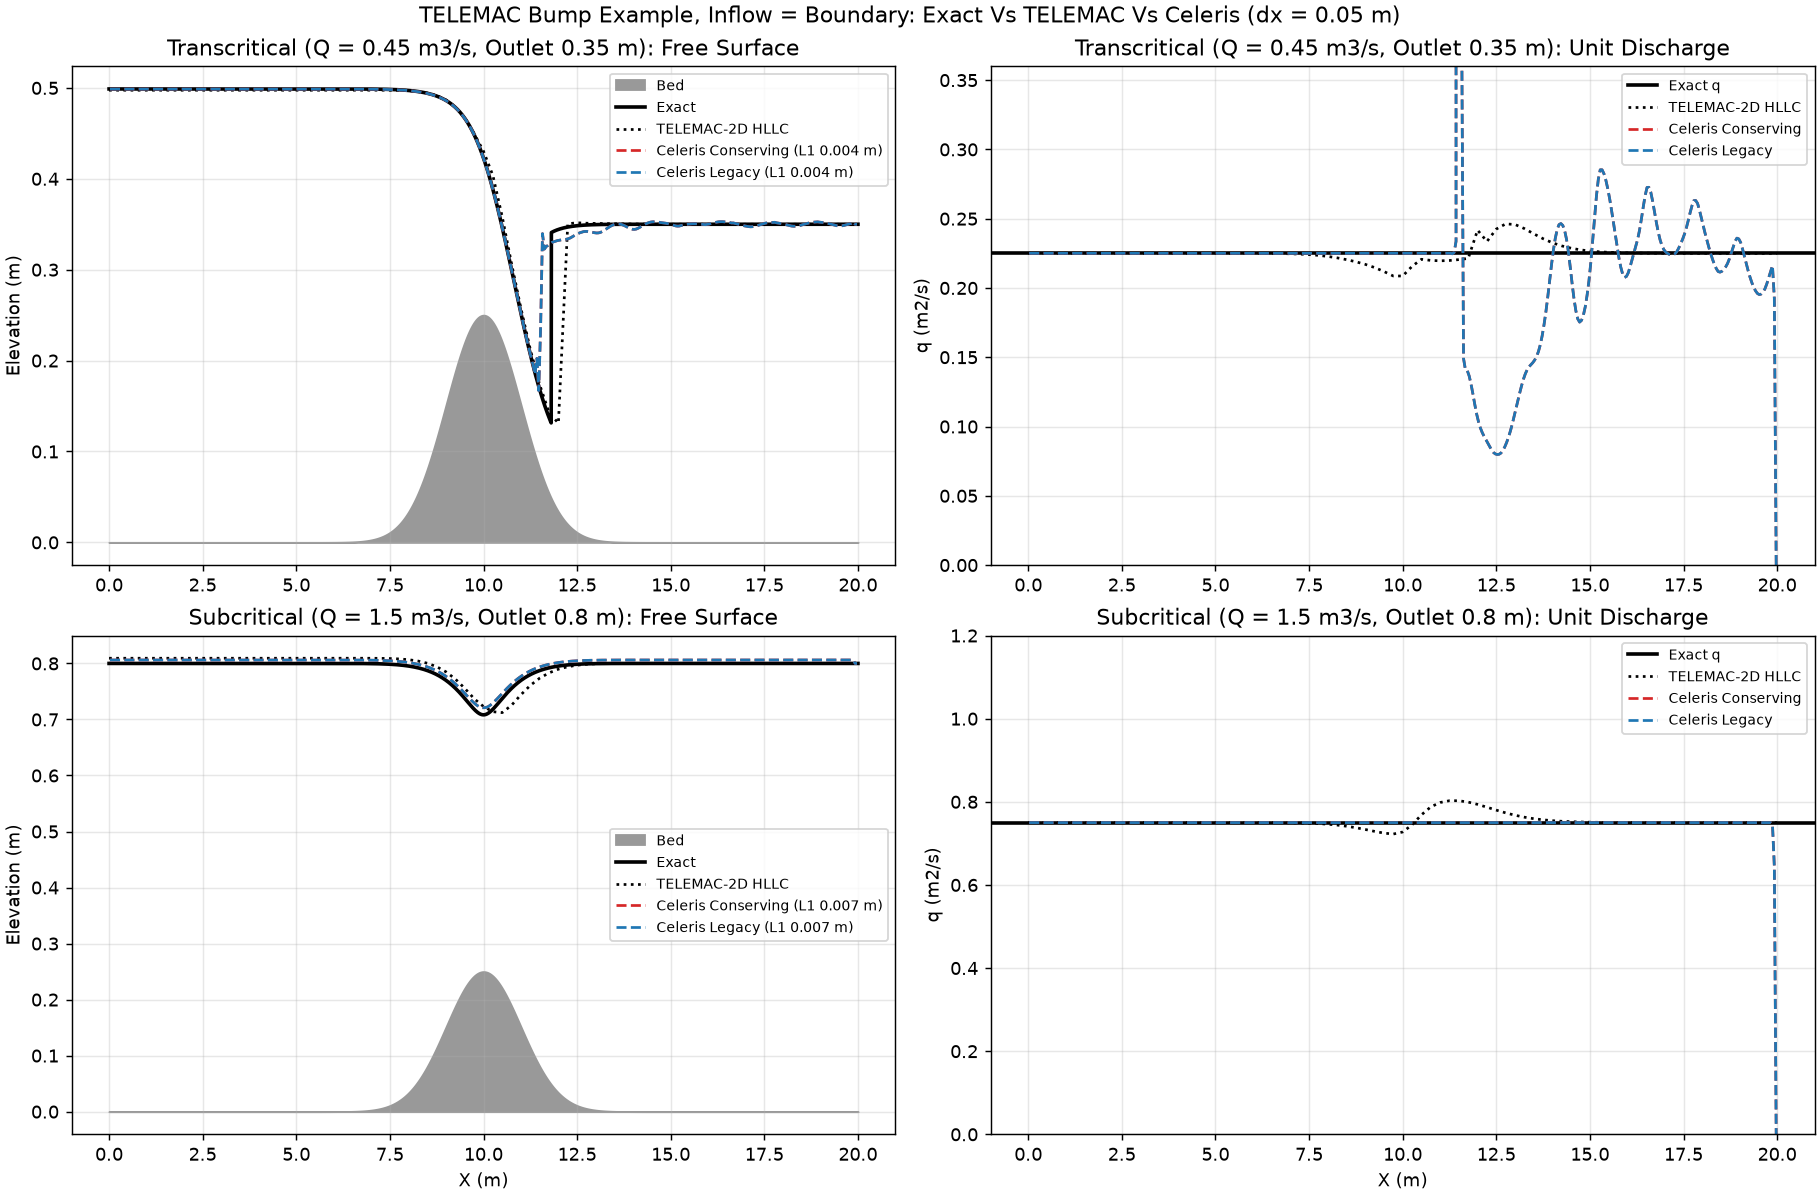
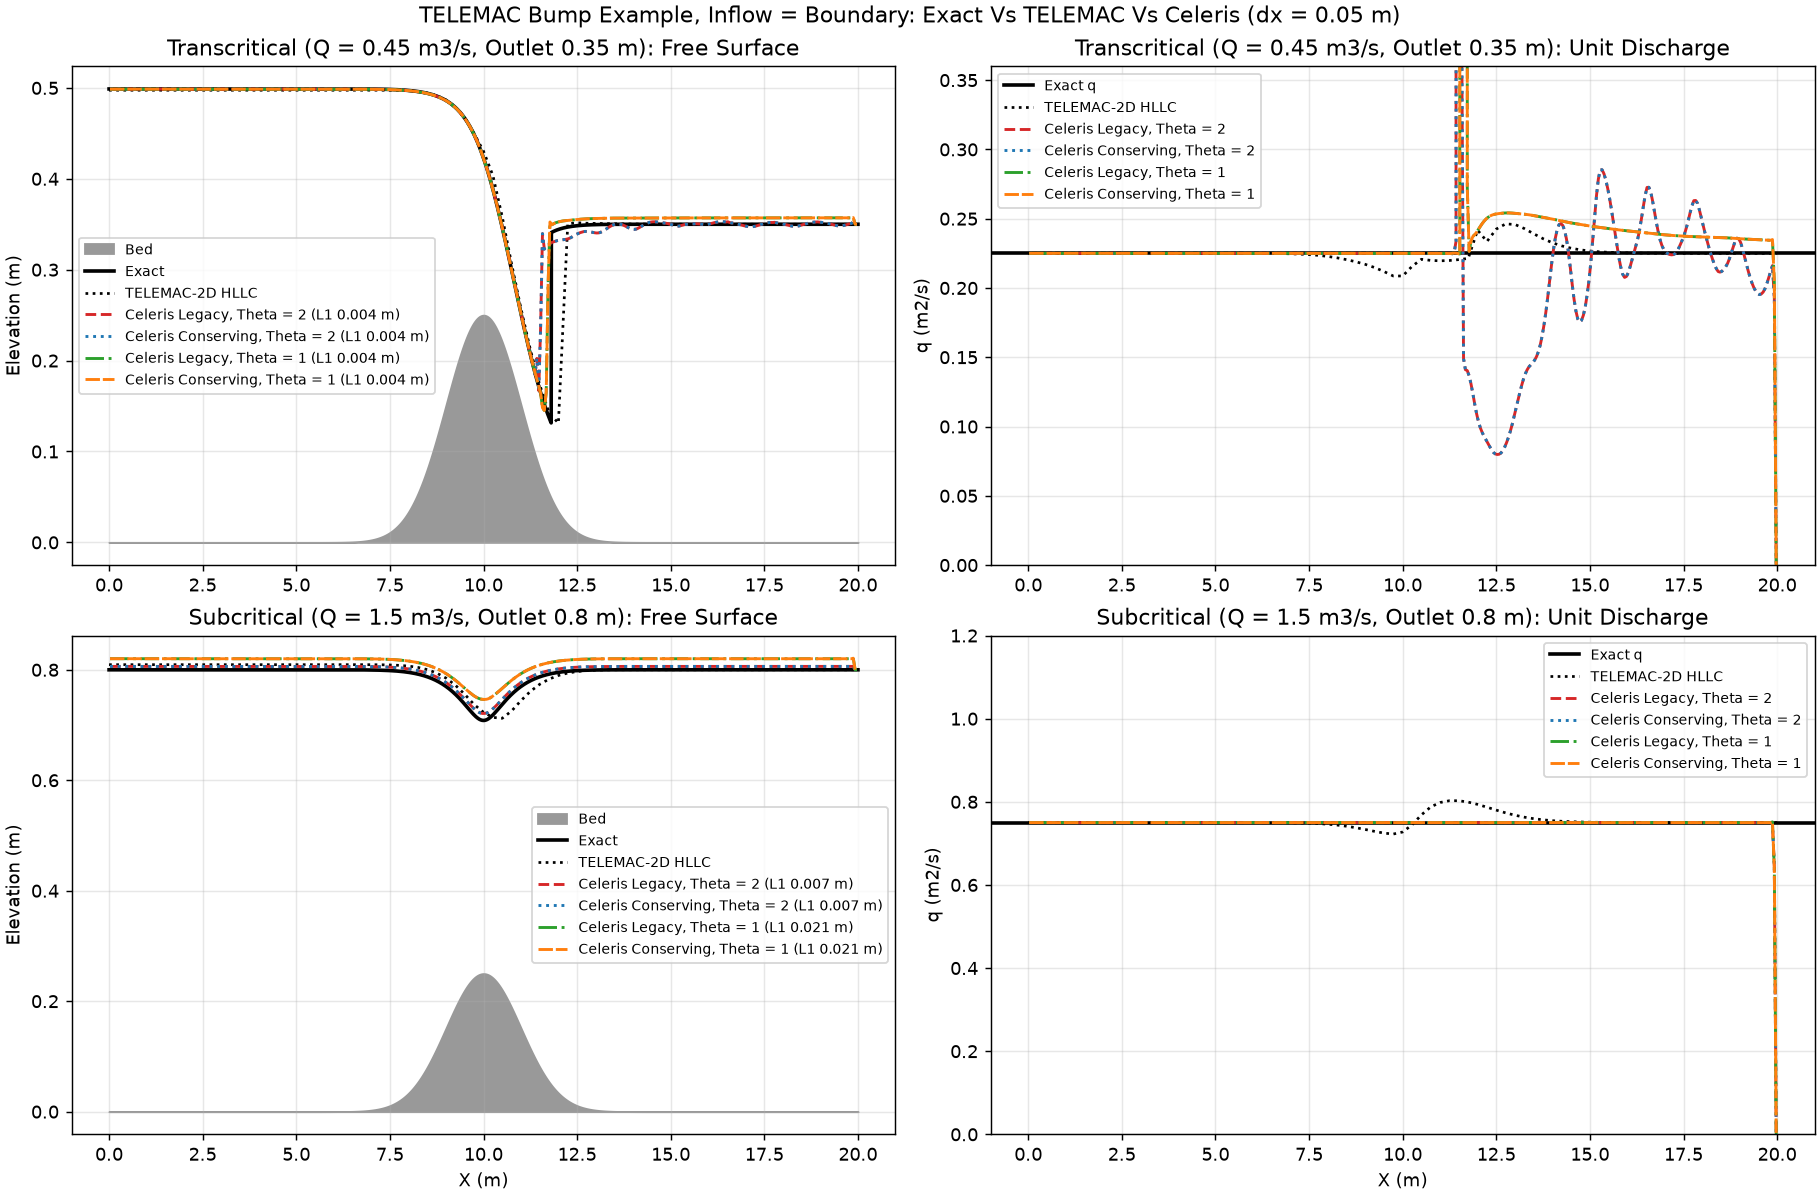
Bump validation: --theta option, distinct line styles, limiter findings
theta = 2 (default) oscillates behind the hydraulic jump (q std 20 %), theta = 1
is steady there but 8 % high and diffusive on smooth flow (subcritical L1
0.021 vs 0.007 m). Legacy and conserving identical for both.

diff --git a/examples/validation/bump/bump_validation.py b/examples/validation/bump/bump_validation.py
@@ -41,7 +41,12 @@ def bed_fn(x: np.ndarray) -> np.ndarray:
 
 
 def run(
-    regime: str, wetdry: str, duration_s: float, out: Path, inflow: str = "boundary"
+    regime: str,
+    wetdry: str,
+    duration_s: float,
+    out: Path,
+    inflow: str = "boundary",
+    theta: float = 2.0,
 ) -> dict[str, np.ndarray]:
     import taichi as ti
 
@@ -93,6 +98,7 @@ def run(
         model="SWE",
         infiltrationRate=0.0,
         wetdry_scheme=wetdry,
+        theta=theta,  # 2 (Celeris default) oscillates behind a hydraulic jump; 1 is TVD
     )
     evolve = Evolve(solver=solver, maxsteps=1)
     state = np.zeros((nx, ny, 4), dtype=np.float32)
@@ -199,6 +205,13 @@ def main() -> None:
     ap.add_argument("--duration", type=float, default=400.0)
     ap.add_argument("--dx", type=float, default=0.05)
     ap.add_argument("--inflow", choices=["boundary", "source"], default="boundary")
+    ap.add_argument(
+        "--theta",
+        type=float,
+        nargs="+",
+        default=[2.0],
+        help="limiter parameter(s), one run per value",
+    )
     ap.add_argument("--tag", default="")
     ap.add_argument(
         "--out", type=Path, default=Path("/mnt/d/Homathko/Validation/celeris/bump")
@@ -253,13 +266,16 @@ def main() -> None:
                     "q_exact": q_total / W_M,
                 }
             )
-        for wd, c in zip(a.wetdry, ("C3", "C0")):
+        styles = iter([("C3", "--"), ("C0", ":"), ("C2", "-."), ("C1", (0, (5, 1)))])
+        for th, wd in [(th, wd) for th in a.theta for wd in a.wetdry]:
+            c, ls = next(styles)
             res = run(
                 regime,
                 wd,
                 a.duration,
-                a.out / f"{regime}_{wd}_{a.inflow}_dx{a.dx:g}",
+                a.out / f"{regime}_{wd}_{a.inflow}_dx{a.dx:g}_th{th:g}",
                 a.inflow,
+                th,
             )
             x, ins = res["x"], res["inside"]
             h_ex = np.interp(x, sol.x, sol.H)
@@ -269,7 +285,7 @@ def main() -> None:
             rows.append(
                 {
                     "regime": regime,
-                    "model": f"Celeris {wd}",
+                    "model": f"Celeris {wd} theta={th:g}",
                     "L1_depth_m": l1,
                     "crest_depth_m": float(np.interp(10.0, x[ins], res["depth"][ins])),
                     "upstream_depth_x2_m": float(
@@ -280,16 +296,16 @@ def main() -> None:
                     "q_exact": q_total / W_M,
                 }
             )
+            lab = f"Celeris {wd.capitalize()}, Theta = {th:g}"
             ax_h.plot(
                 x[ins],
                 res["eta"][ins],
-                "--",
+                ls=ls,
                 color=c,
-                label=f"Celeris {wd.capitalize()} (L1 {l1:.3f} m)",
+                lw=1.6,
+                label=f"{lab} (L1 {l1:.3f} m)",
             )
-            ax_q.plot(
-                x[ins], res["q"][ins], "--", color=c, label=f"Celeris {wd.capitalize()}"
-            )
+            ax_q.plot(x[ins], res["q"][ins], ls=ls, color=c, lw=1.6, label=lab)
         title = {
             "trans": "Transcritical (Q = 0.45 m3/s, Outlet 0.35 m)",
             "sub": "Subcritical (Q = 1.5 m3/s, Outlet 0.8 m)",

diff --git a/examples/validation/bump/README.md b/examples/validation/bump/README.md
@@ -67,3 +67,15 @@ solution to the same accuracy as TELEMAC's sources do, with no inlet hump in a
    pad must not be a step.
 2. **Keep an interior source clear of the first interior column.** A strip
    touching the wall column leaked 25 % of its volume into the ghost rim.
+
+## Limiter parameter `theta` (`--theta`, default 2 as in Celeris)
+
+Behind the hydraulic jump the default `theta = 2` (least dissipative end of the
+generalized minmod limiter) is unsteady: the unit discharge at x = 15 m
+oscillates in time with a standard deviation of 0.046 m2/s (20 % of q) while the
+surface moves 2 mm. `theta = 1` (TVD minmod) removes the oscillation
+(0.005 m2/s) but leaves q 8 % high behind the jump (TELEMAC HLLC: 1.5 % high)
+and is visibly more diffusive on smooth flow: subcritical L1 0.021 m against
+0.007 m with `theta = 2`, crest depth 0.497 m against the exact 0.471 m. Neither
+value is right for both; the reservoir problem has no hydraulic jump, so the
+default stays. Legacy and conserving are identical for every `theta` here.
